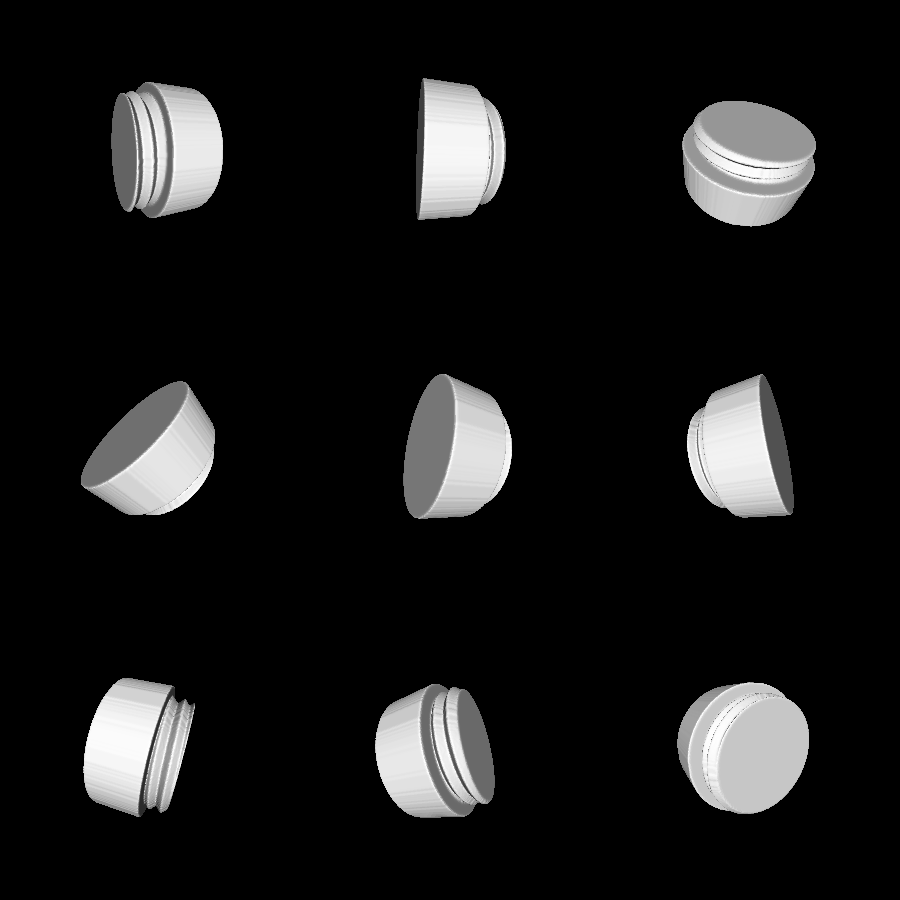
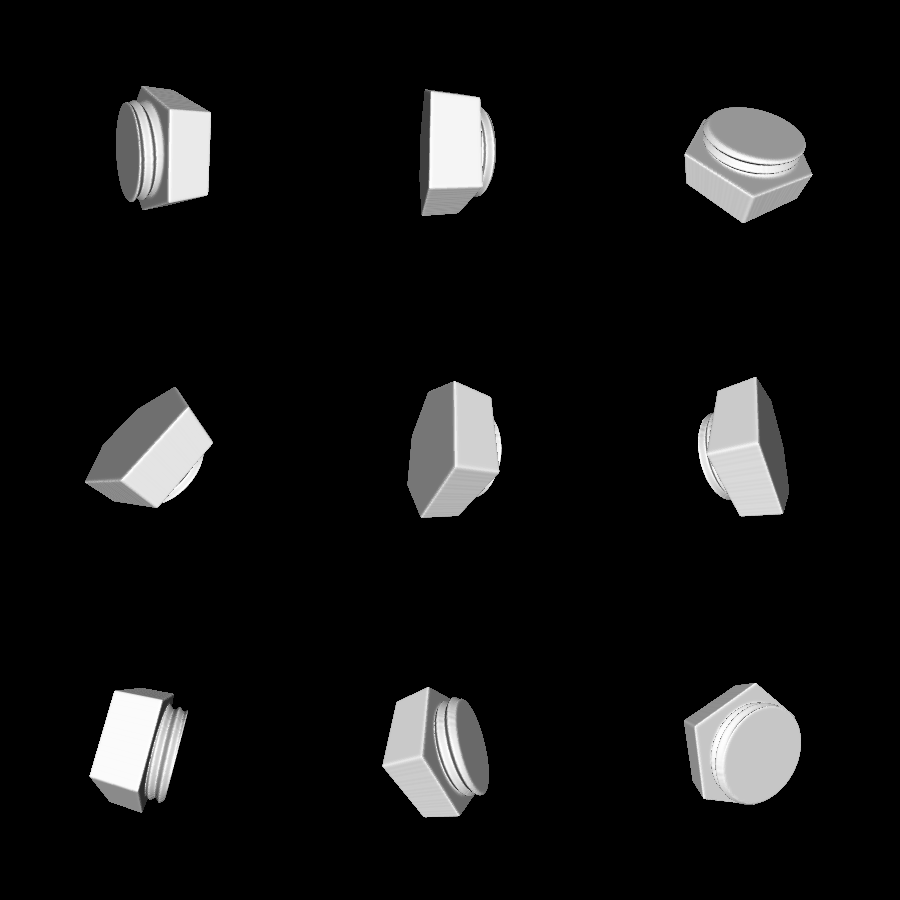
quarter case: easier-to-screw lid

diff --git a/examples/usable/quarter_case/main.go b/examples/usable/quarter_case/main.go
@@ -18,6 +18,7 @@ const (
 	LidScrewDiameter = 1.1
 	LidScrewSlack    = 0.03
 	LidScrewGroove   = 0.05
+	LidSides         = 6
 
 	PreviewZ1        = 0.4
 	PreviewZ2        = 2.5
@@ -27,11 +28,25 @@ const (
 )
 
 func main() {
-	lidSolid := &model3d.StackedSolid{
-		&model3d.CylinderSolid{
-			P2:     model3d.Coord3D{Z: LidHeight},
-			Radius: OuterDiameter / 2,
+	lidBase := model3d.ConvexPolytope{
+		&model3d.LinearConstraint{
+			Normal: model3d.Coord3D{Z: -1},
+			Max:    0,
 		},
+		&model3d.LinearConstraint{
+			Normal: model3d.Coord3D{Z: 1},
+			Max:    LidHeight,
+		},
+	}
+	for i := 0; i < LidSides; i++ {
+		theta := math.Pi * 2 * float64(i) / LidSides
+		lidBase = append(lidBase, &model3d.LinearConstraint{
+			Normal: model3d.Coord3D{X: math.Cos(theta), Y: math.Sin(theta)},
+			Max:    OuterDiameter / 2,
+		})
+	}
+	lidSolid := &model3d.StackedSolid{
+		lidBase.Solid(),
 		&toolbox3d.ScrewSolid{
 			P2:         model3d.Coord3D{Z: LidScrewHeight},
 			Radius:     LidScrewDiameter/2 - LidScrewSlack,
@@ -61,8 +76,8 @@ func main() {
 
 	smoother := &model3d.MeshSmoother{
 		StepSize:           0.1,
-		Iterations:         20,
-		ConstraintDistance: 0.005,
+		Iterations:         40,
+		ConstraintDistance: 0.01,
 		ConstraintWeight:   0.02,
 	}
 
